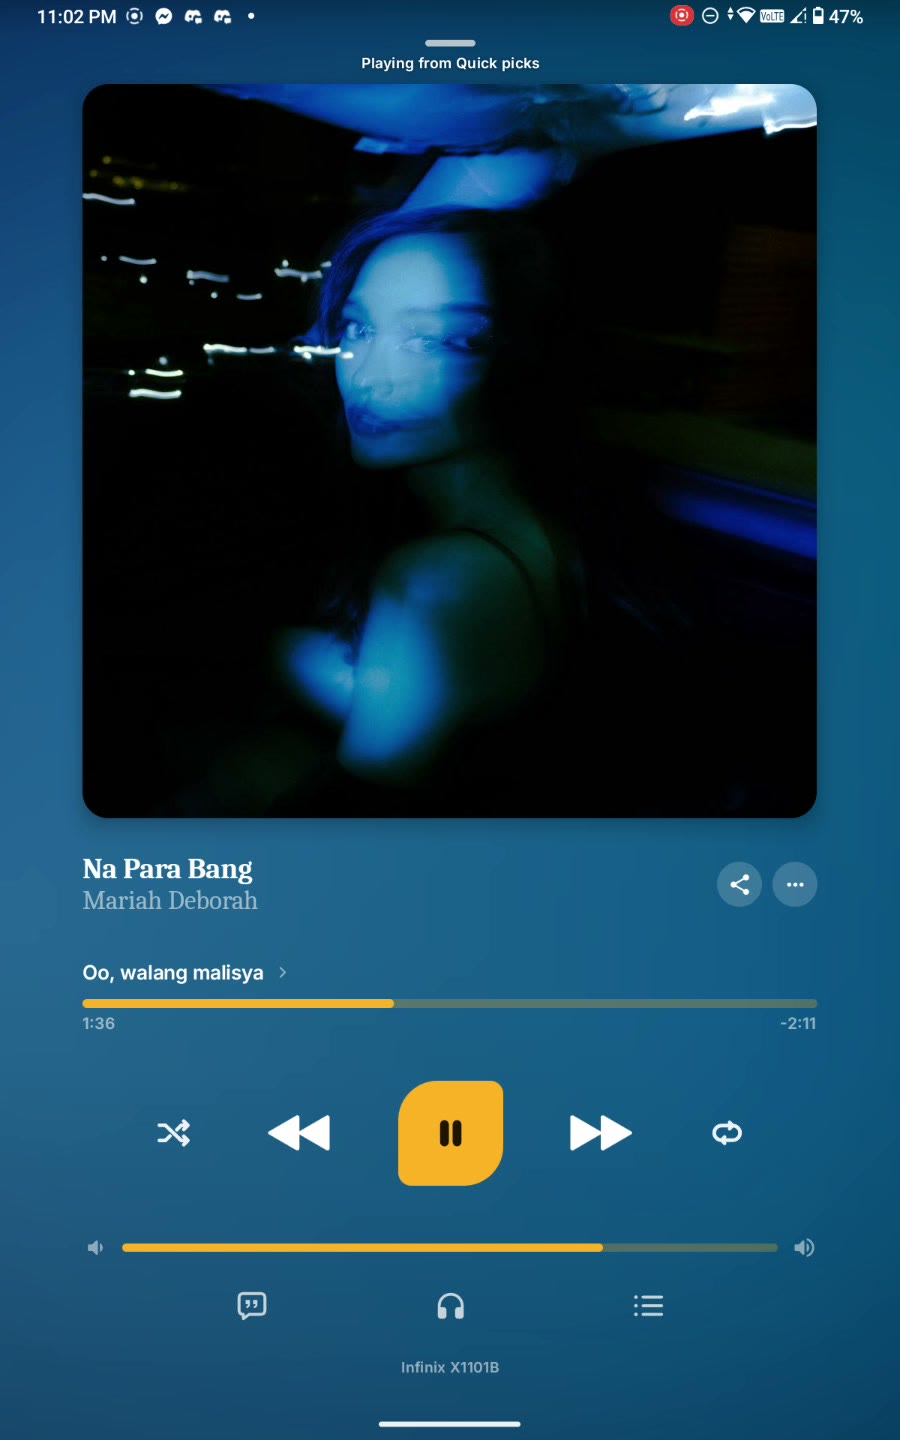
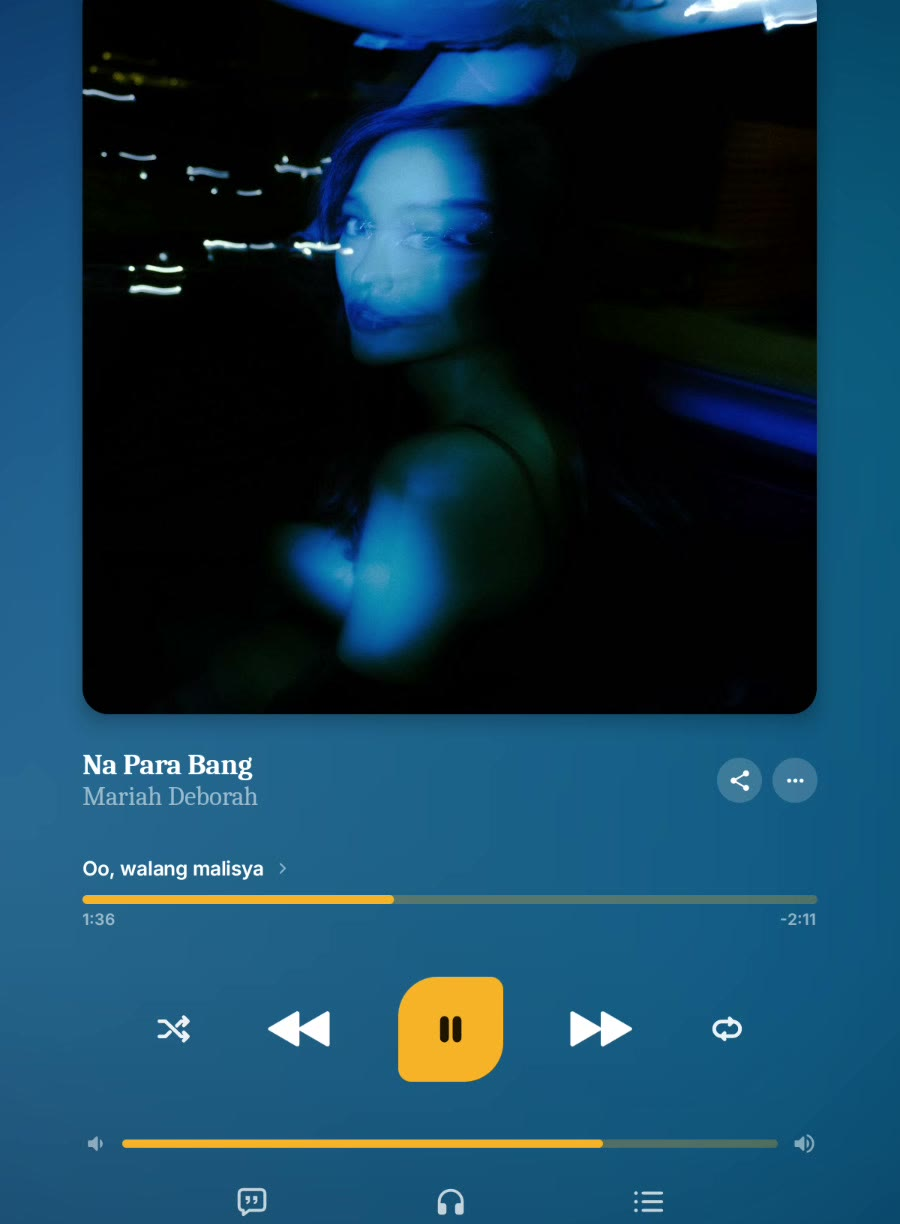
Crop hero screenshot to the app only

diff --git a/styles.css b/styles.css
@@ -127,7 +127,7 @@ a { color: inherit; text-decoration: none; }
 /* Phone mockup */
 .phone-stage { position: relative; display: flex; justify-content: center; }
 .phone {
-  width: min(300px, 72vw); aspect-ratio: 5 / 8;
+  width: min(300px, 72vw); aspect-ratio: 900 / 1224;
   background: #08060c; border-radius: 44px; padding: 12px;
   border: 1px solid rgba(255,255,255,0.14);
   box-shadow: 0 40px 90px rgba(0,0,0,0.6), 0 0 0 8px rgba(255,255,255,0.03), 0 0 70px rgba(192,132,252,0.16);
